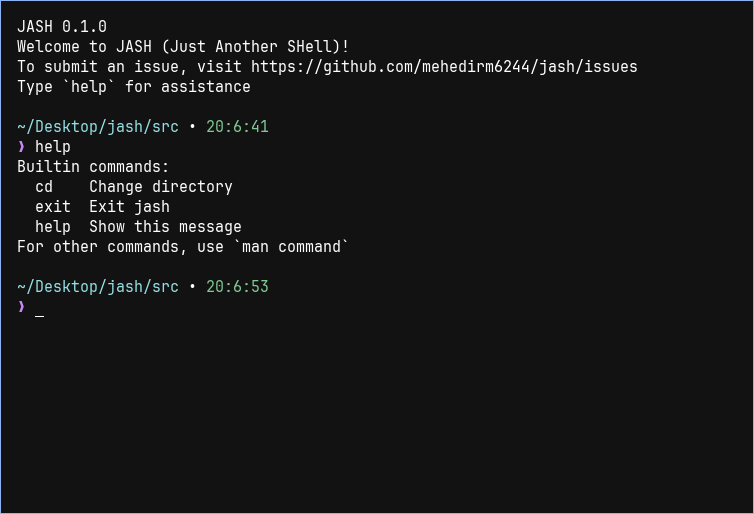
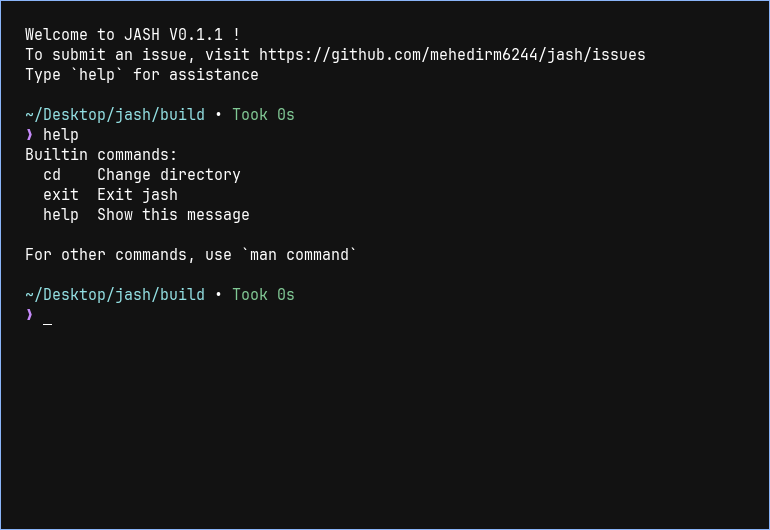
Update Readme

Changed region(s): [[0.0, 0.0311, 0.8541, 0.4981], [0.0305, 0.5292, 0.3966, 0.6226]]

diff --git a/src/builtins/help.c b/src/builtins/help.c
@@ -6,7 +6,7 @@ int jash_help(char **args) {
   printf("Builtin commands:\n");
   printf("  cd\tChange directory\n");
   printf("  exit\tExit jash\n");
-  printf("  help\tShow this message\n");
+  printf("  help\tShow this message\n\n");
   printf("For other commands, use `man command`\n");
 
   return 1;

diff --git a/README.md b/README.md
@@ -1,21 +1,25 @@
 ## JASH
-JASH stands for Just Another Shell. Through this project, I'm supposed to learn some of the basics of C languge.
+JASH stands for "Just Another SHell". Through this project, I'm supposed to learn some of the basics of the C languge.
 
 ### Preview
 <p align="center"><img src="https://github.com/mehedirm6244/jash/blob/main/assets/preview.png?raw=true"></p>
 
 ### Try JASH
-Dependencies:
+#### Dependencies:
 - GNU readline
 
-Cloning and compilation:
+#### Cloning and compilation:
 ```
 git clone github.com/mehedirm6244/jash
-cd /jash/src
-gcc main.c -o jash -lreadline
+cd jash
+mkdir build && cd build
+cmake ..
+cmake --build . 
 ```
 
-Running JASH:
+#### Executing JASH:
+
+The binary file is created as `jash/build/jash`. Assuming that your current working directory is `jash/build`, you can execute JASH by typing:
 ```
 ./jash
 ```
